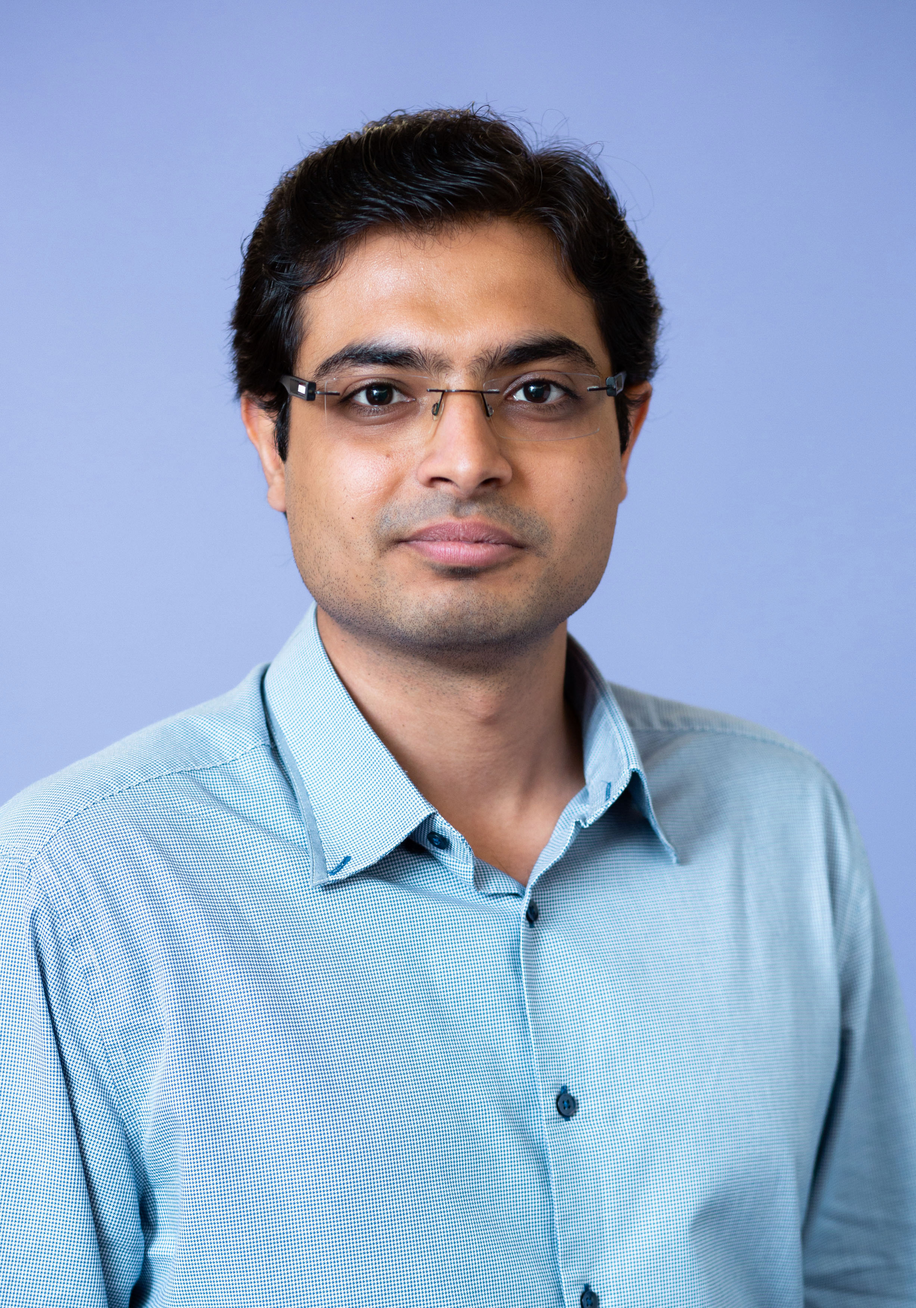
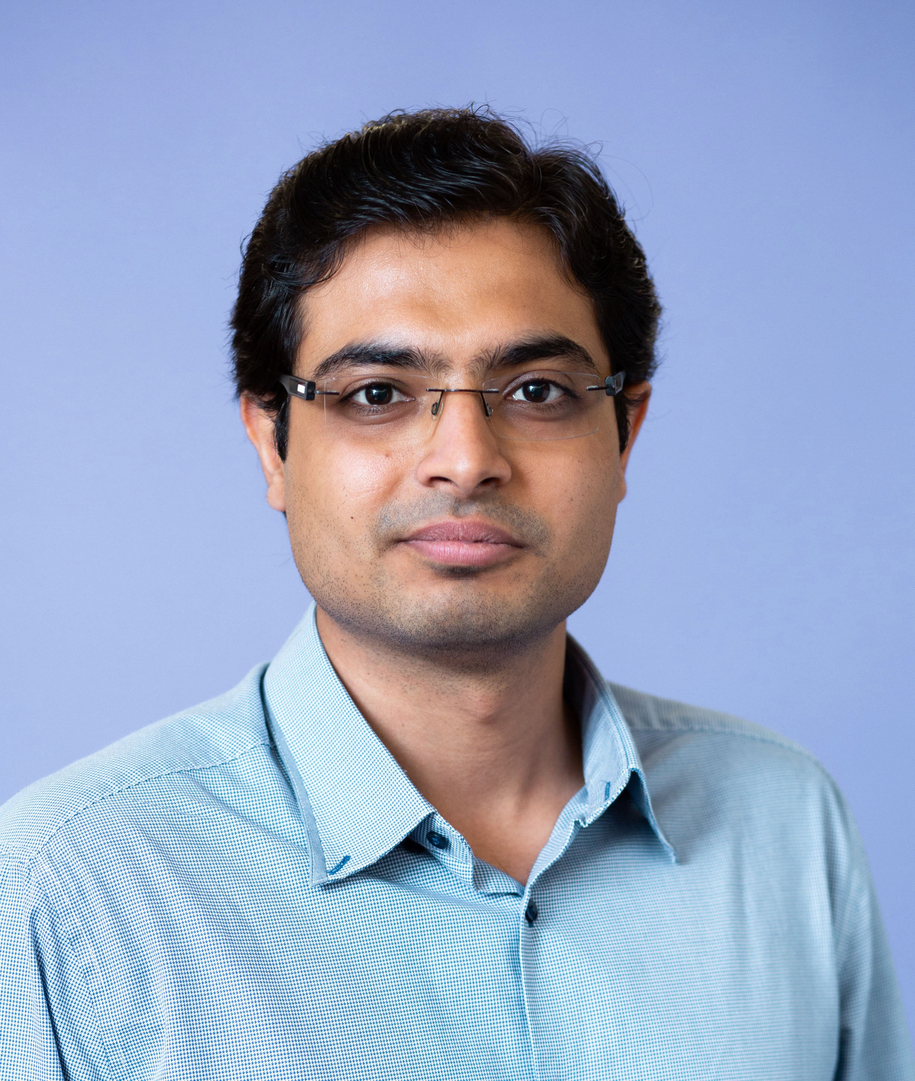
resizing pic

diff --git a/index.md b/index.md
@@ -8,6 +8,6 @@ Fraud detection is a set of processes and analyses that allow businesses to iden
 
 [![View on GitHub](https://img.shields.io/badge/GitHub-View_on_GitHub-blue?logo=GitHub)](https://github.com/pradeepsaklani/fraud_detection)
 
-<center><img src="images/fraud_detection.jpg"/></center>
+<center><img src="assets/img/fraud_detection.jpg"/></center>
 
 ---
